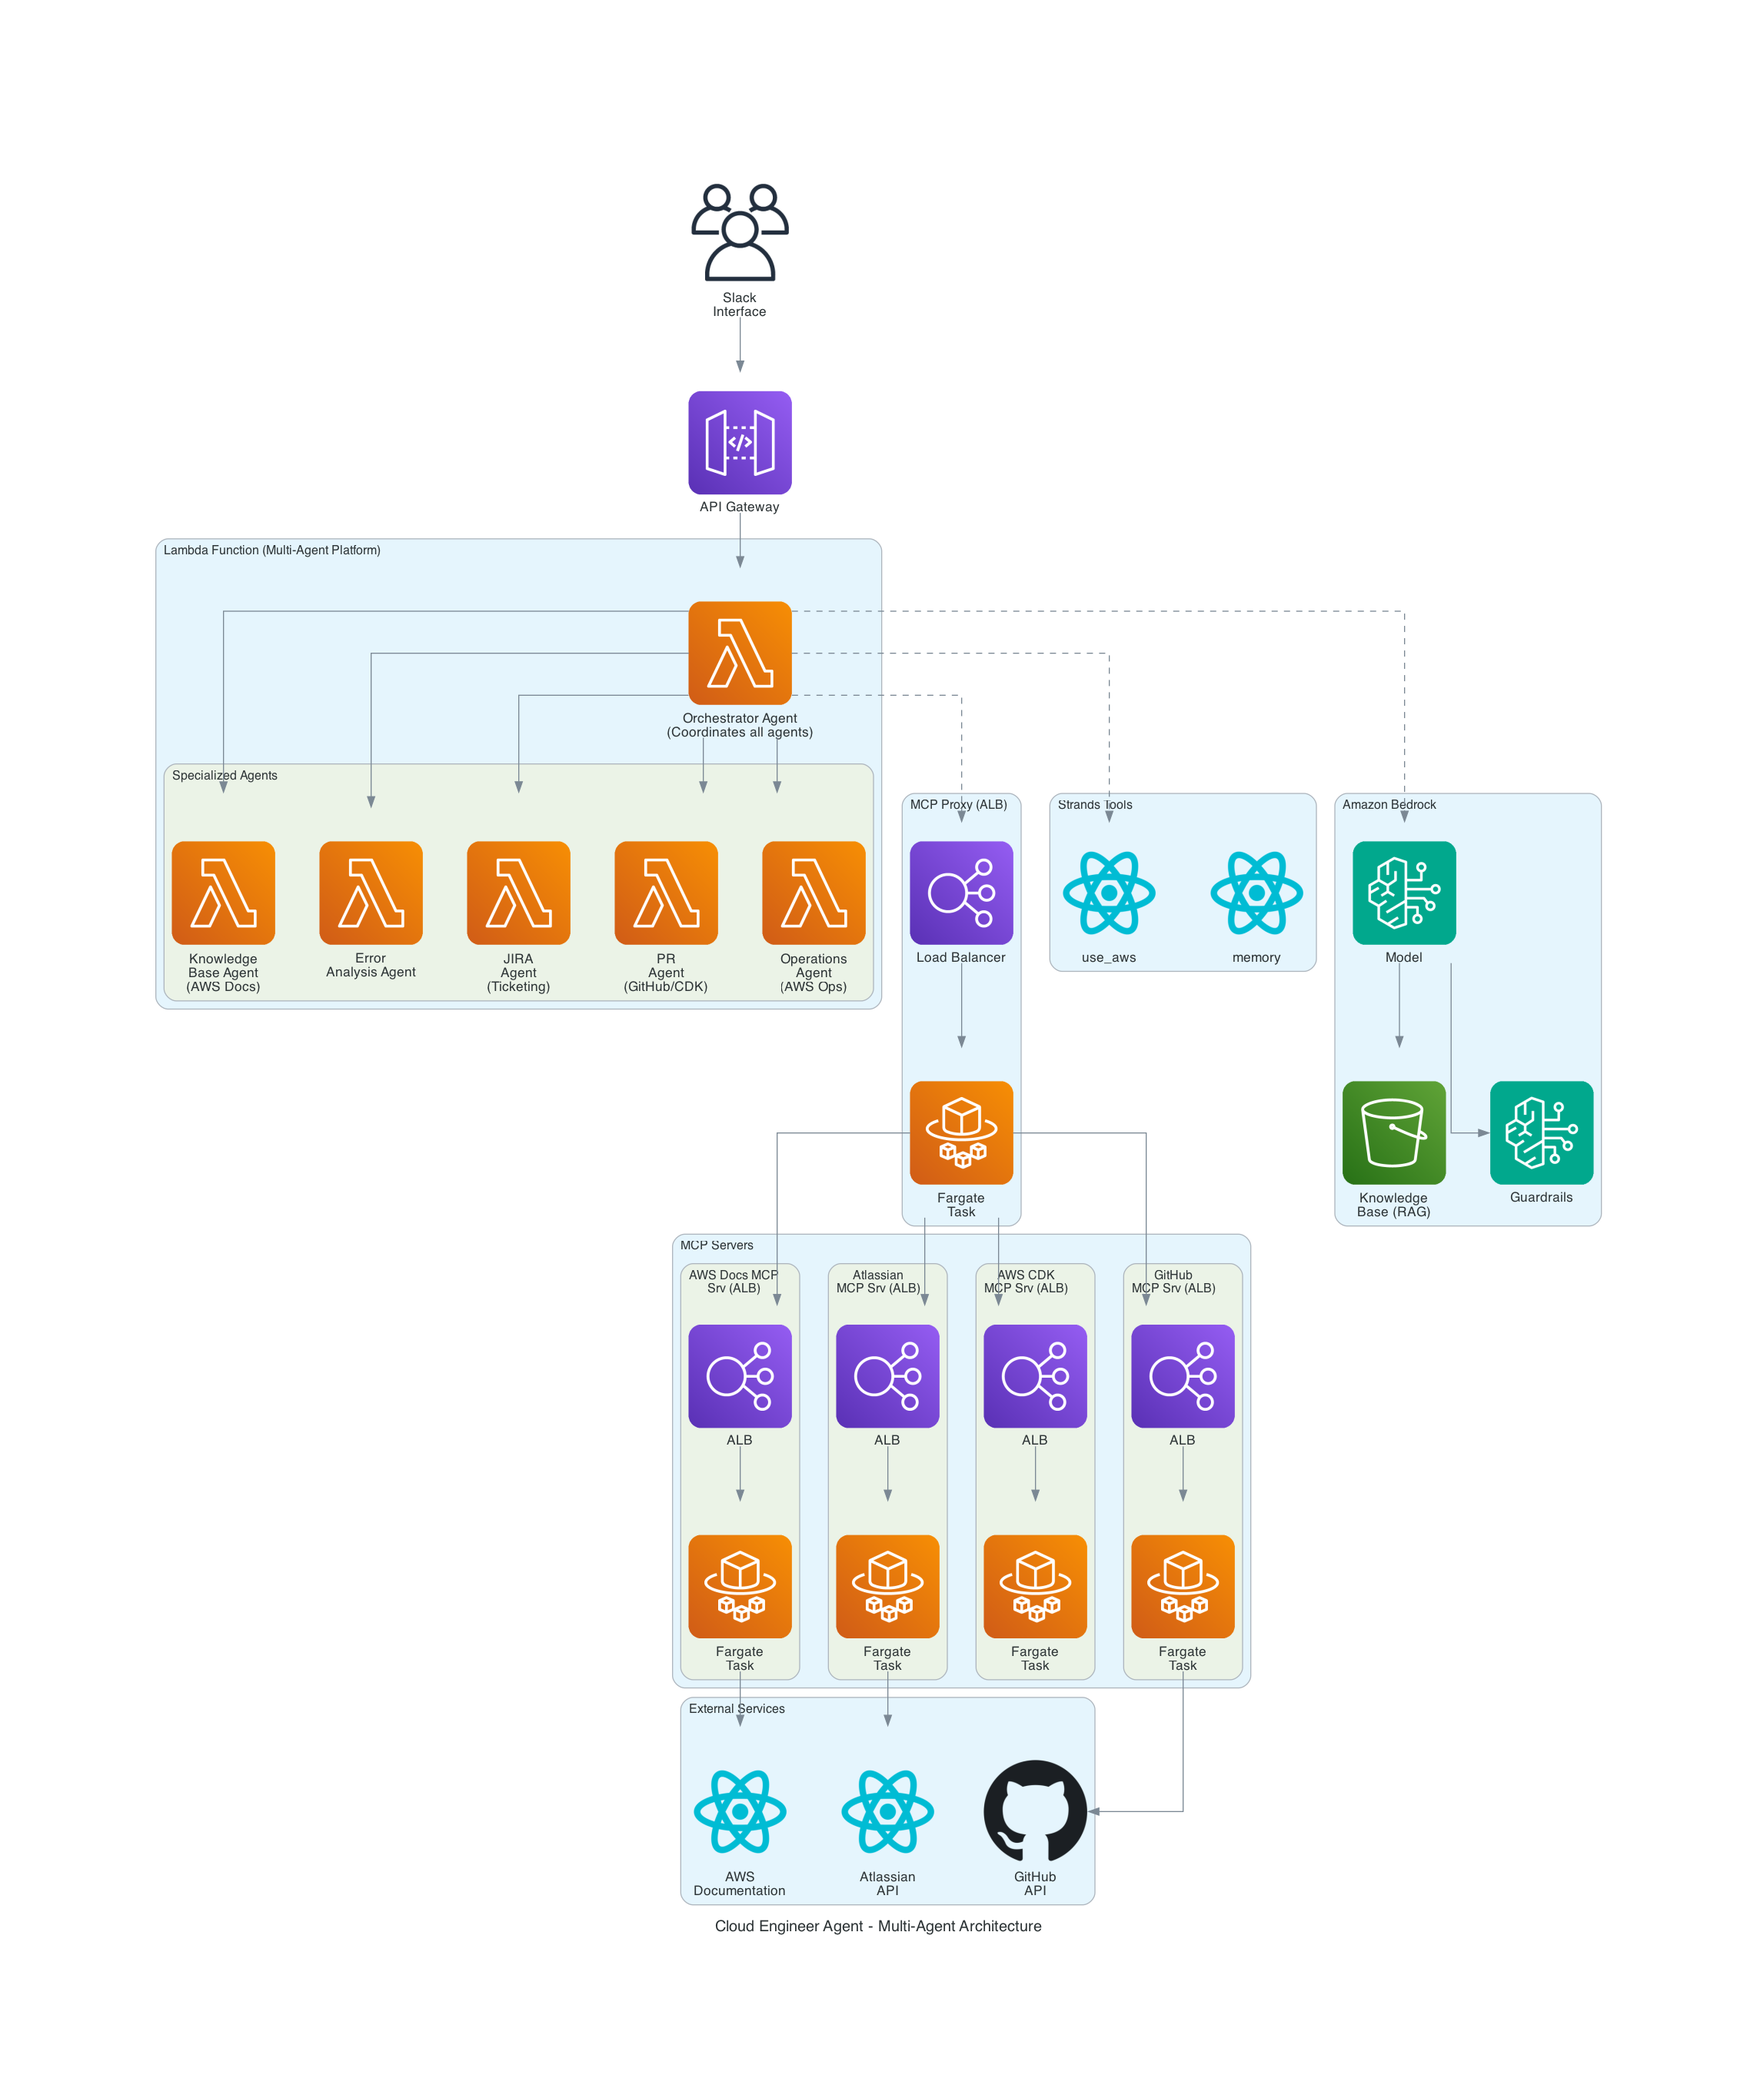
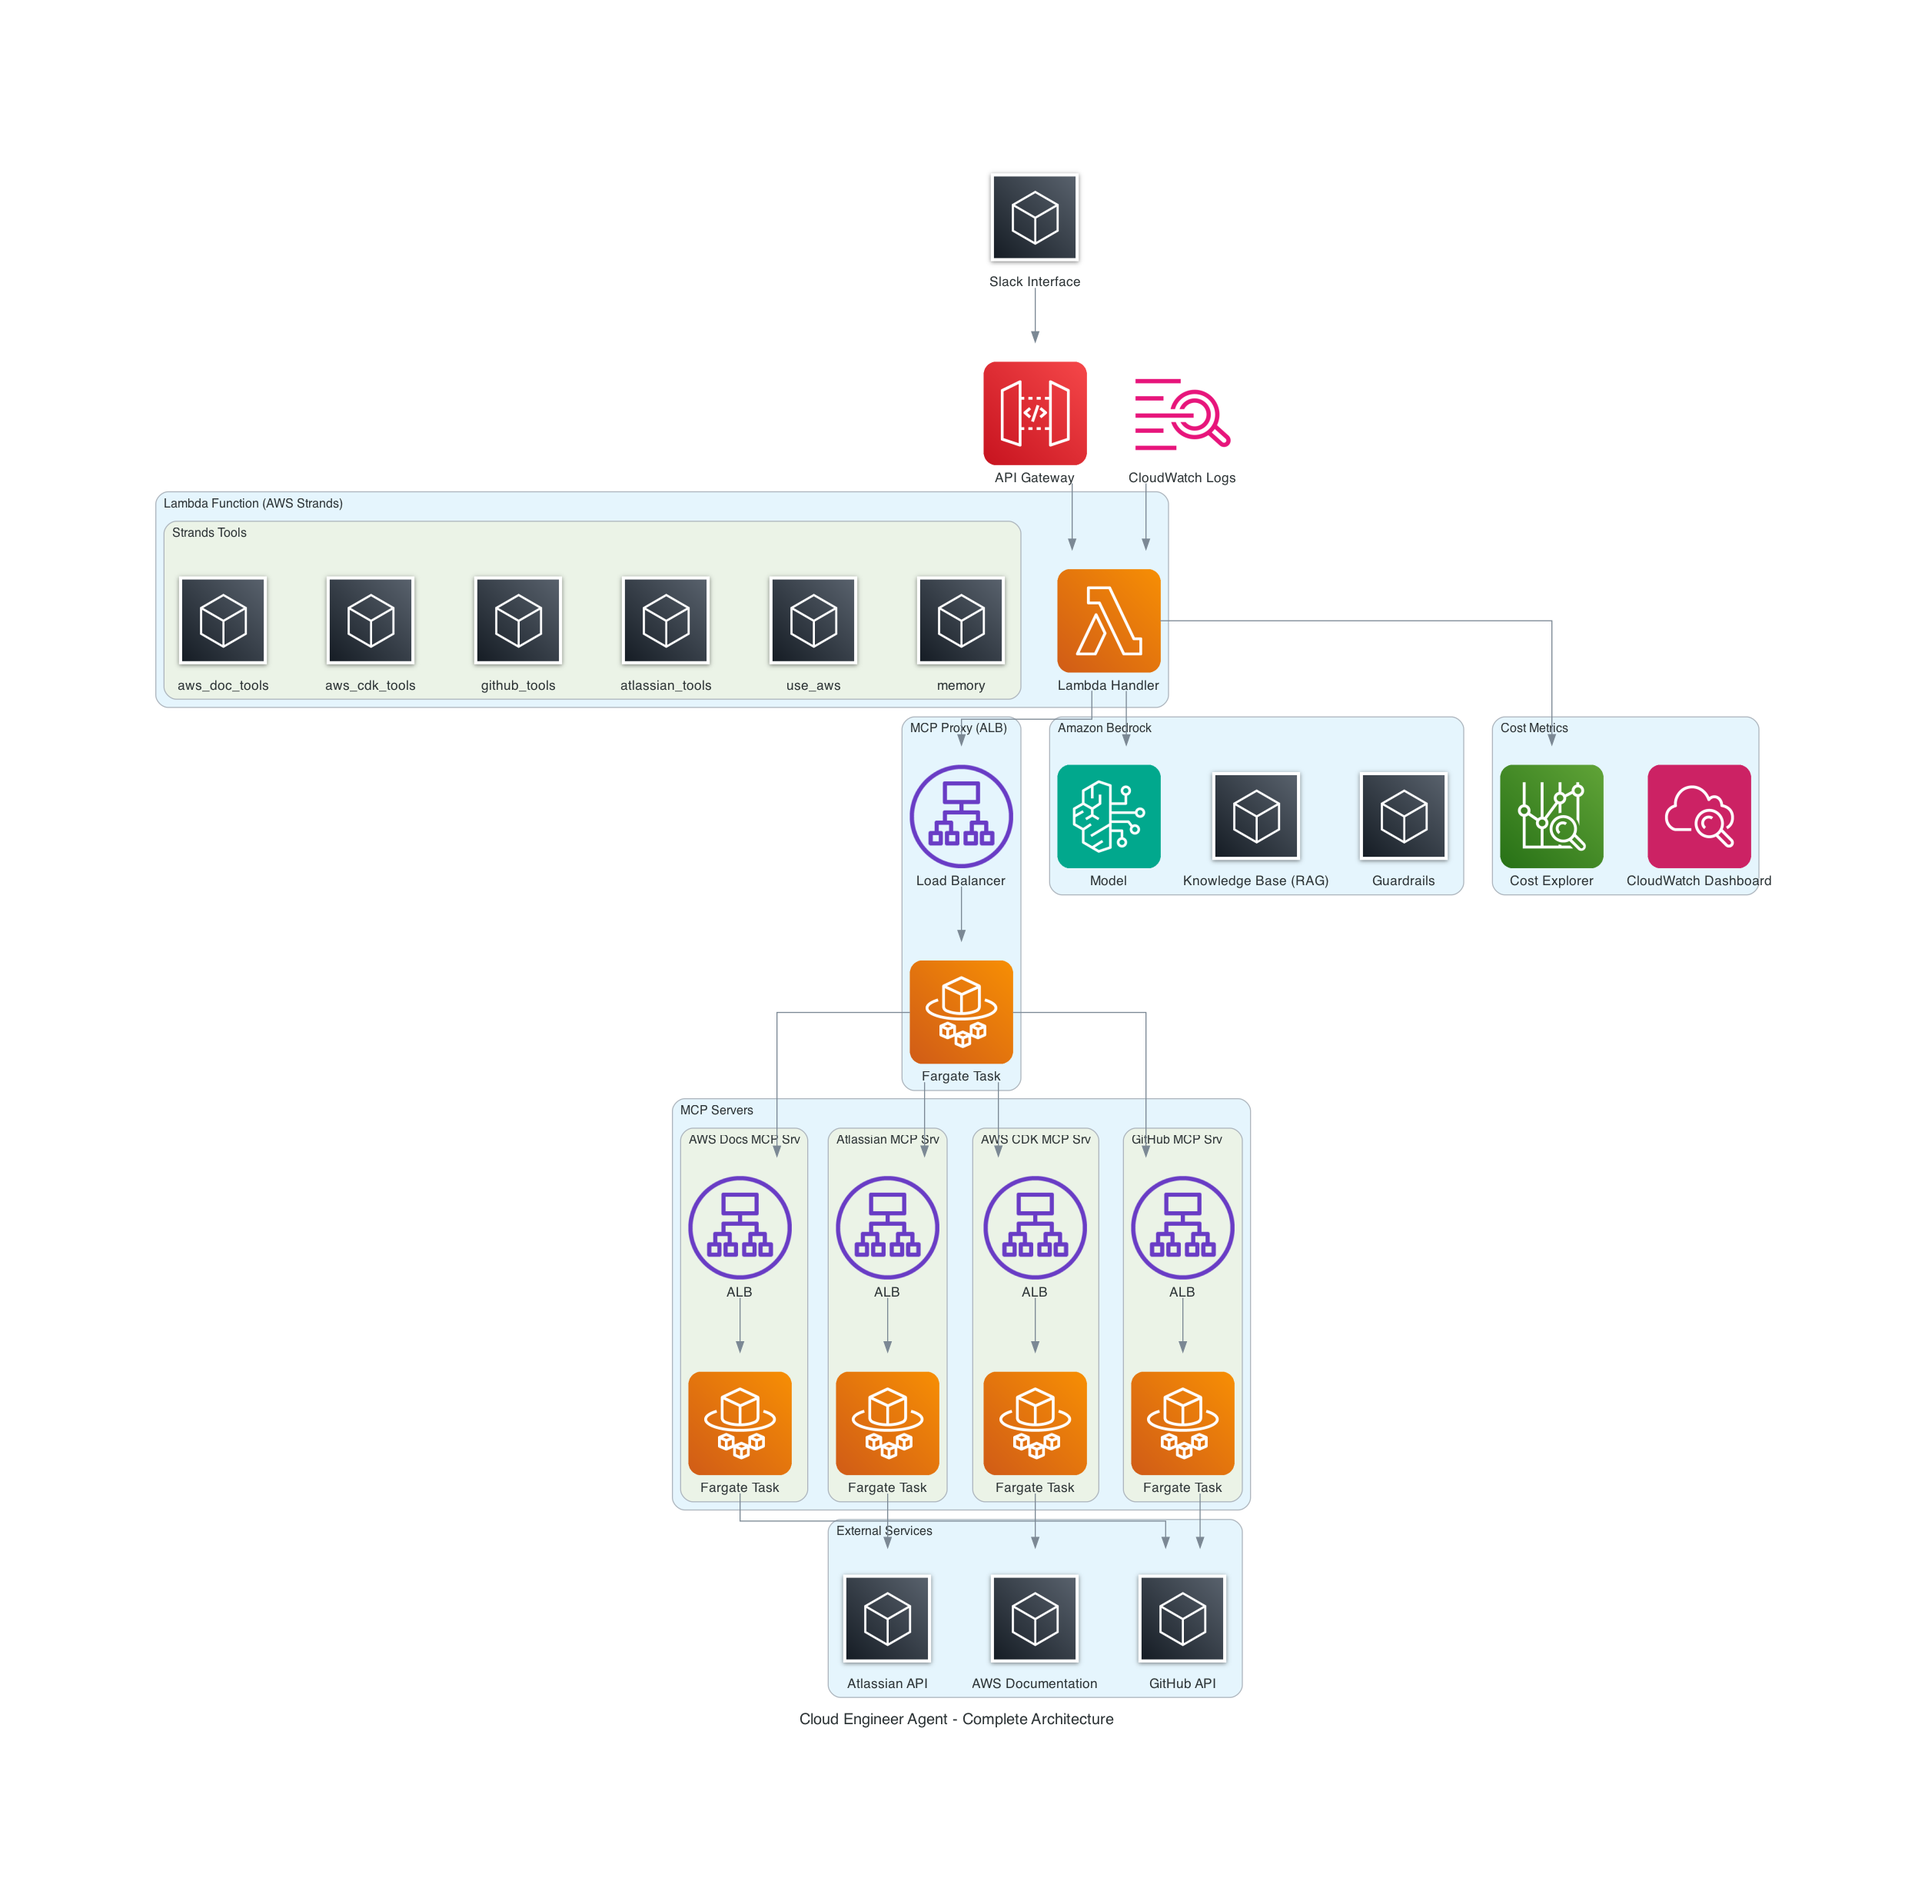
Update diagram

Changed region(s): [[0.0621, 0.1867, 0.9322, 0.9337], [0.4972, 0.0934, 0.5904, 0.1556], [0.4039, 0.0934, 0.4661, 0.1556]]

diff --git a/agent/cloud_engineer.py b/agent/cloud_engineer.py
@@ -190,8 +190,8 @@ def clean_agent_response(response: Union[str, Dict, Any]) -> str:
     cleaned = re.sub(r"\n\s*\n\s*\n", "\n\n", cleaned)
 
     # Ensure response isn't too long for Slack
-    if len(cleaned) > 2500:
-        cleaned = cleaned[:2400] + "\n\n... (truncated)"
+    # if len(cleaned) > 2500:
+    #     cleaned = cleaned[:2400] + "\n\n... (truncated)"
 
     return cleaned.strip()
 

diff --git a/README.md b/README.md
@@ -58,6 +58,7 @@ This architecture represents a comprehensive cloud engineer agent solution built
                                                                          
 ```
 ![Architecture Diagram](generated-diagrams/cloud-engineer-architecture.png)
+Generated using aws-diagram MCP server.
 
 ## System Context
 
@@ -85,8 +86,7 @@ The system behavior is defined in `agent/system_prompt.md`, which outlines the a
 
 4. **External Service Integration**:
    - **MCP Proxy (ALB)**: Load-balanced access to containerized MCP servers running on Fargate
-   - **Amazon Bedrock**: Claude model for AI processing, Knowledge Base for RAG, and Guardrails for content safety
-   - **Cost Metrics**: Integration with Cost Explorer and CloudWatch Dashboard for cost monitoring
+   - **Amazon Bedrock**: Claude model for AI processing and Guardrails for content safety
    - **External APIs**: GitHub API, Atlassian API, and AWS Documentation services
 
 5. **Response Processing**: Lambda aggregates responses from all integrated services and tools
@@ -97,10 +97,13 @@ The system behavior is defined in `agent/system_prompt.md`, which outlines the a
 
 ### MCP Servers
 - **AWS Documentation MCP Server**: Provides real-time access to AWS documentation, best practices, and technical guides
-- **AWS Cost Explorer MCP Server**: Delivers cost analysis, billing insights, and optimization recommendations
+- **AWS CDK MCP Server**: Offers CDK-specific operations, template generation, and infrastructure as code guidance
+- **GitHub MCP Server**: Enables repository management, pull request operations, and version control integration
+- **Atlassian MCP Server**: Provides Jira integration for issue tracking, project management, and workflow automation
 
 ### Strands Tools
 - **use_aws Tool**: Enables direct interaction with AWS services for operational tasks, resource management, and configuration changes
+- **memory**: Store user and agent memories across agent runs to provide personalized experiences with both Mem0 and Amazon Bedrock Knowledge Bases
 
 ### Amazon Bedrock Services
 - **Claude Model**: Advanced language model for understanding and generating responses
@@ -135,9 +138,7 @@ The system behavior is defined in `agent/system_prompt.md`, which outlines the a
 
 ## Security & Compliance
 
-- API Gateway security and rate limiting
 - Lambda execution environment isolation
-- MCP server secure communication protocols
 - Bedrock Guardrails for content safety
 - AWS IAM for granular access control
 - Audit logging for all operations
@@ -199,6 +200,12 @@ cloud-engineer/
 
 - Auto-scaling Lambda functions
 - Distributed MCP server architecture
-- Cached documentation and cost data
-- Optimized Bedrock service calls
-- Efficient knowledge base queries
+
+## Future Improvements
+
+The following features are planned for future implementation:
+
+- **Bedrock Knowledge Base**: RAG implementation with internal knowledge repository for enhanced contextual responses
+- **Memory Strands Tool**: Advanced context retention and conversation history management within AWS Lambda
+- **CloudWatch Dashboard**: Comprehensive cost explorer integration for inference cost monitoring and visualization
+- **API Security Implementation**: Advanced security measures and authentication

diff --git a/demos/cloud-ops/README.md b/demos/cloud-ops/README.md
@@ -5,7 +5,6 @@ This demo showcases direct AWS service interactions, resource management, and in
 ## Overview
 
 The Cloud Engineer Agent provides comprehensive AWS operations capabilities, enabling users to:
-- Launch and manage EC2 instances
 - Execute AWS CLI commands directly
 - Create repositories and deploy CloudFormation templates
 - Perform infrastructure operations through natural language queries
@@ -38,8 +37,6 @@ The Cloud Engineer Agent provides comprehensive AWS operations capabilities, ena
 
 ### EC2 Management
 - Instance launching with custom configurations
-- Security group and key pair management
-- Instance monitoring and status tracking
 
 ### Infrastructure Deployment
 - CloudFormation stack creation and management
